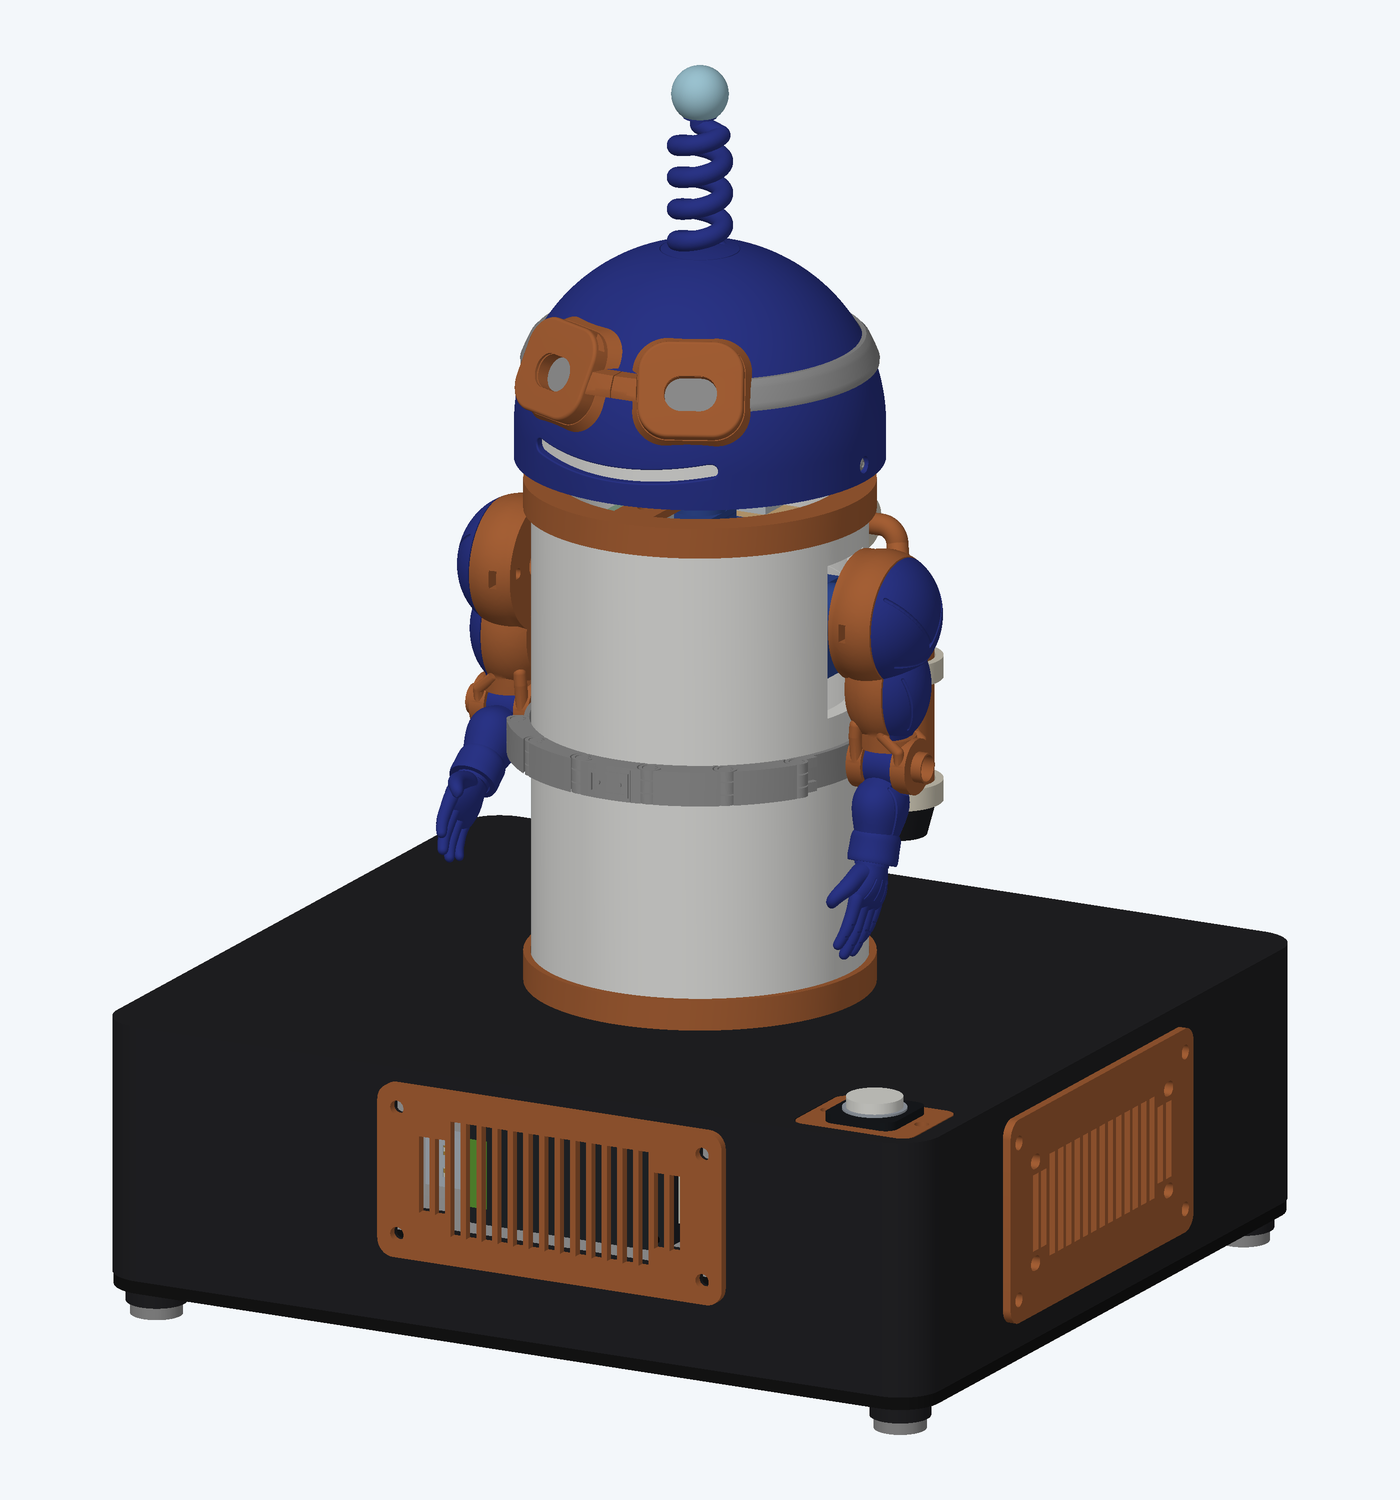
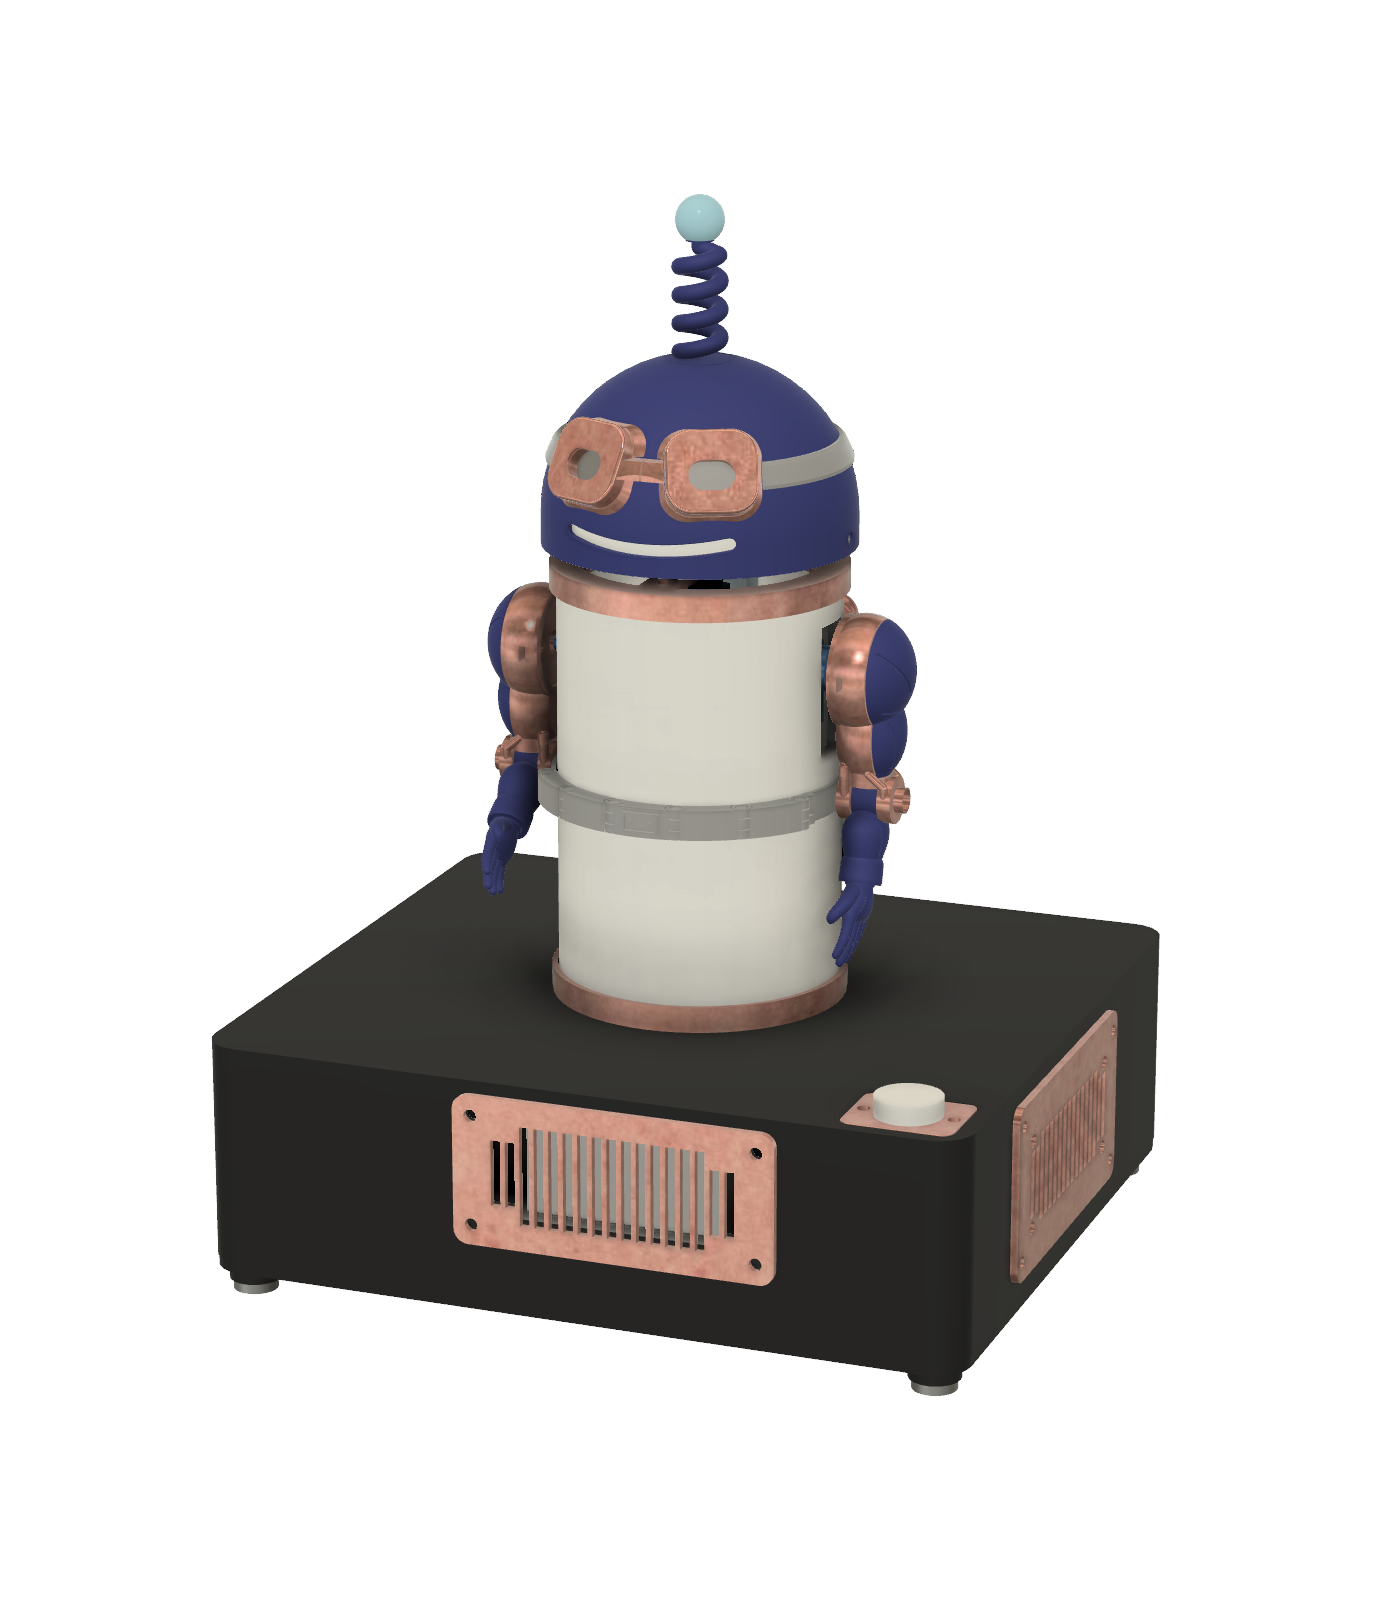
Use a Fusion presentation capture for the main robot image
Replace the renderer-drawn front view with a shaded capture from Fusion's
Design workspace, which shows the real appearances (copper trim, ivory
body) on a transparent background. Record its source hash, camera,
lighting and export settings in presentation-front.json, document how to
recapture it, and drop the scene from render_models.py so the illustration
generator leaves it alone. Regenerate the link-preview card from it.

Claude-Session: https://claude.ai/code/session_01EnNd7MYFHgpRwVJFToUq7s

diff --git a/hardware/tools/guide/render_models.py b/hardware/tools/guide/render_models.py
@@ -45,7 +45,8 @@ def scenes():
         view['labels_by_root'] = copy.deepcopy(library['r16/base-speakers']['view']['labels_by_root'])
         view['title'] = {'audio-cradle-fasteners':'Audio cradle — fit all three screws before the module'}.get(name, view.get('title'))
         result[f'assets/community/{name}.png'] = dict(view=view,thumbnail=False)
-    result['assets/r22/main-front.png'] = dict(view=dict(select=['all'],exclude=['AR07','AR10','AR11'],camera=[.85,-1.6,.55],clean=True,size=[1400,1500],margin=65),thumbnail=False)
+    # The presentation front view is captured in Fusion, not this renderer.
+    # Its settings and source are recorded in rendering/presentation-front.json.
     result['assets/part-P35.png'] = dict(view=dict(select=['P35'],camera=[.9,-1.6,.9],clean=True),thumbnail=True)
     result['assets/r16/step-29.png'] = dict(view=dict(select=['P35','P36','P37','P38','P39','P40'],camera=[.9,1.6,.9],offset={'P37':[0,0,-12],'P38':[0,0,10],'P39':[0,0,10],'P40':[0,9,0]},title='Test-fit the backpack details',footer='Fit the tanks first; arrows show the parts coming together'),thumbnail=False)
     for path, scene in result.items():

diff --git a/hardware/build-guide/README.md b/hardware/build-guide/README.md
@@ -94,6 +94,15 @@ also requires the release checklist; it does not establish physical fit.
 
 ## Optional authoring tools
 
+The main robot image (`src/assets/r22/main-front.png`, retaining its existing URL)
+is a native Fusion **Design workspace, Shaded** capture. Its source hash, camera,
+lighting and export settings are in [presentation-front.json](../rendering/presentation-front.json).
+Import the selected `assembly.f3d` into a separate presentation document, retain
+its appearances and visibility, and export an antialiased transparent PNG with
+those settings. Do not save changes to MAIN. Review the image in the guide and
+rerun `make guide-social-card` after replacing it. The assembly illustration
+generator deliberately leaves this image alone.
+
 Ordinary checking/building uses committed authored assets. These generators need
 additional local tools only when changing those assets; review generated diffs:
 
